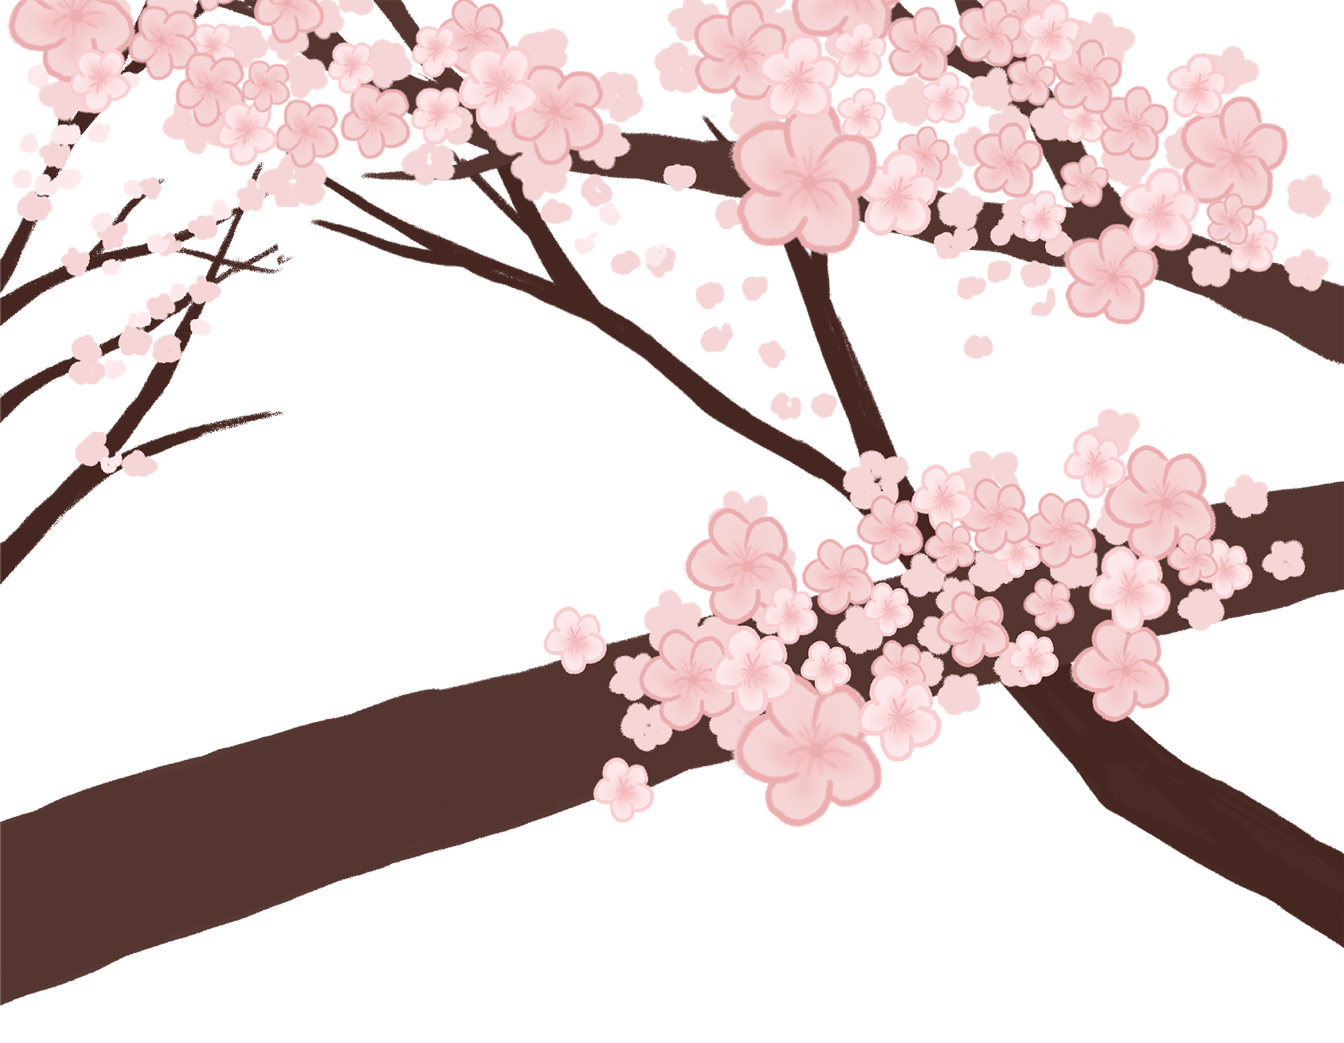
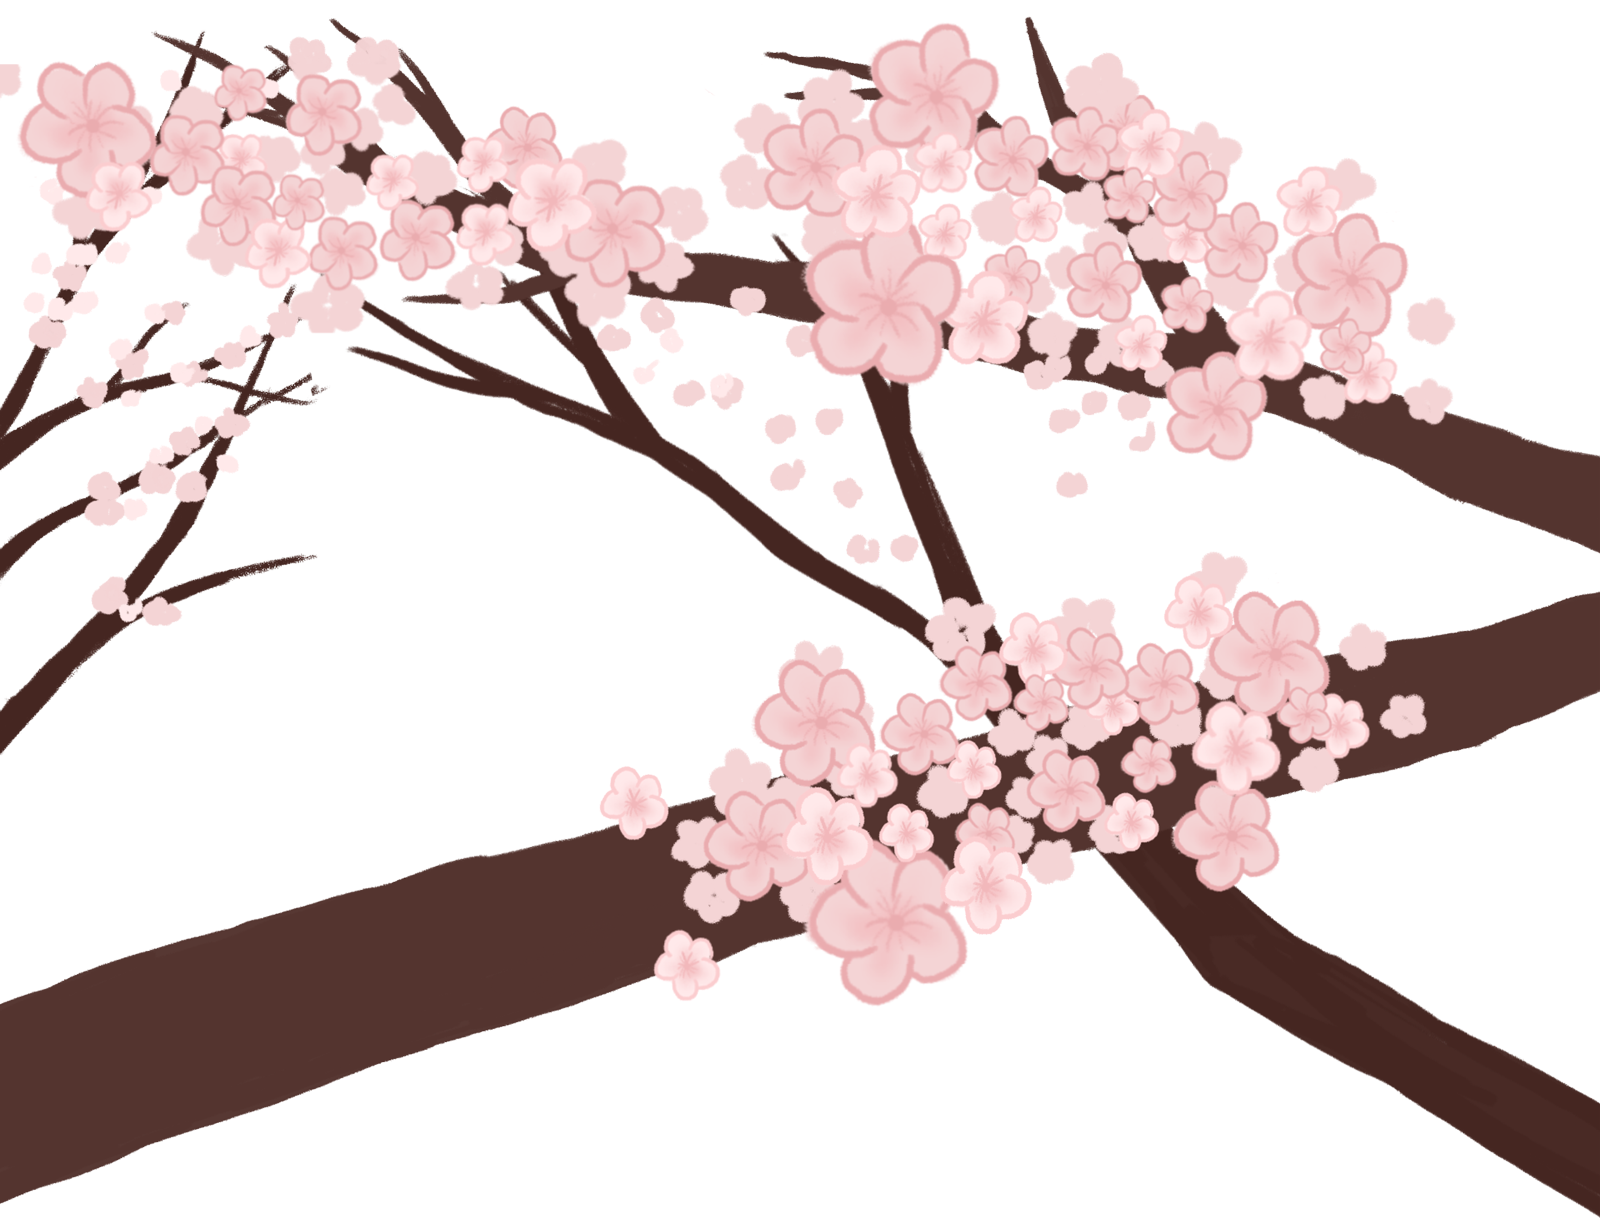
update

diff --git a/assets/css/web-innisfree-style.css b/assets/css/web-innisfree-style.css
@@ -103,8 +103,8 @@ section {
 #pohon-kiri {
     position: absolute;
     left: 0;
-    top: 60px;
-    height: 670px;
+    top: 0;
+    height: 100%;
     animation-name: pohon-kiri;
     animation-duration: 1s;
 }
@@ -112,8 +112,8 @@ section {
 #pohon-kanan {
     position: absolute;
     right: 0;
-    top: 60px;
-    height: 670px;
+    top: 0;
+    height: 100%;
     animation-name: pohon-kanan;
     animation-duration: 1s;
 }
